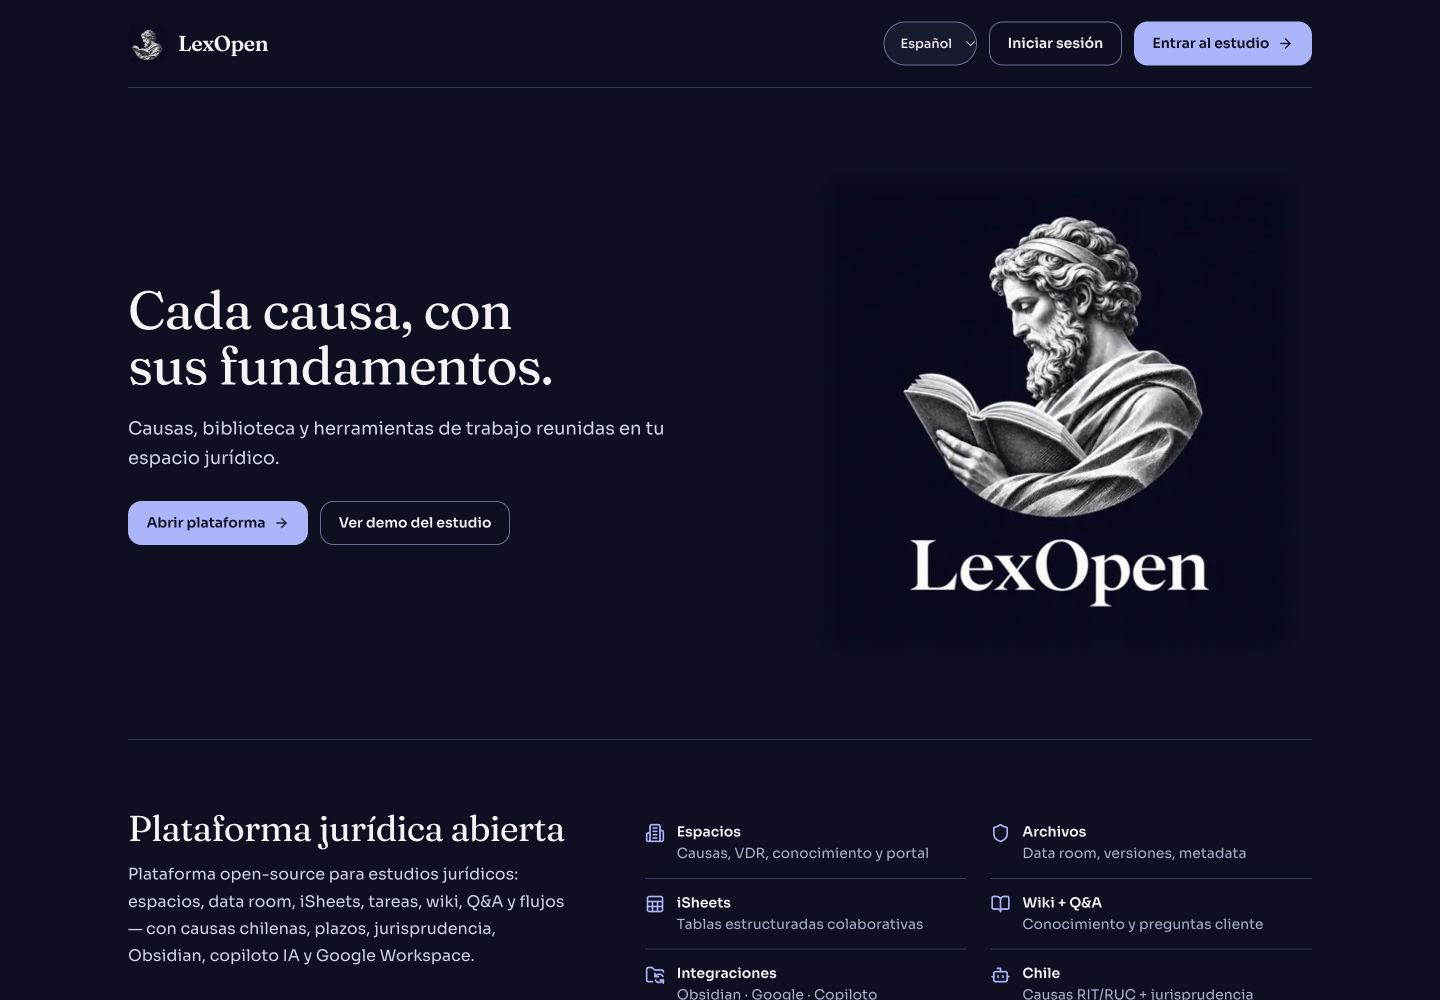
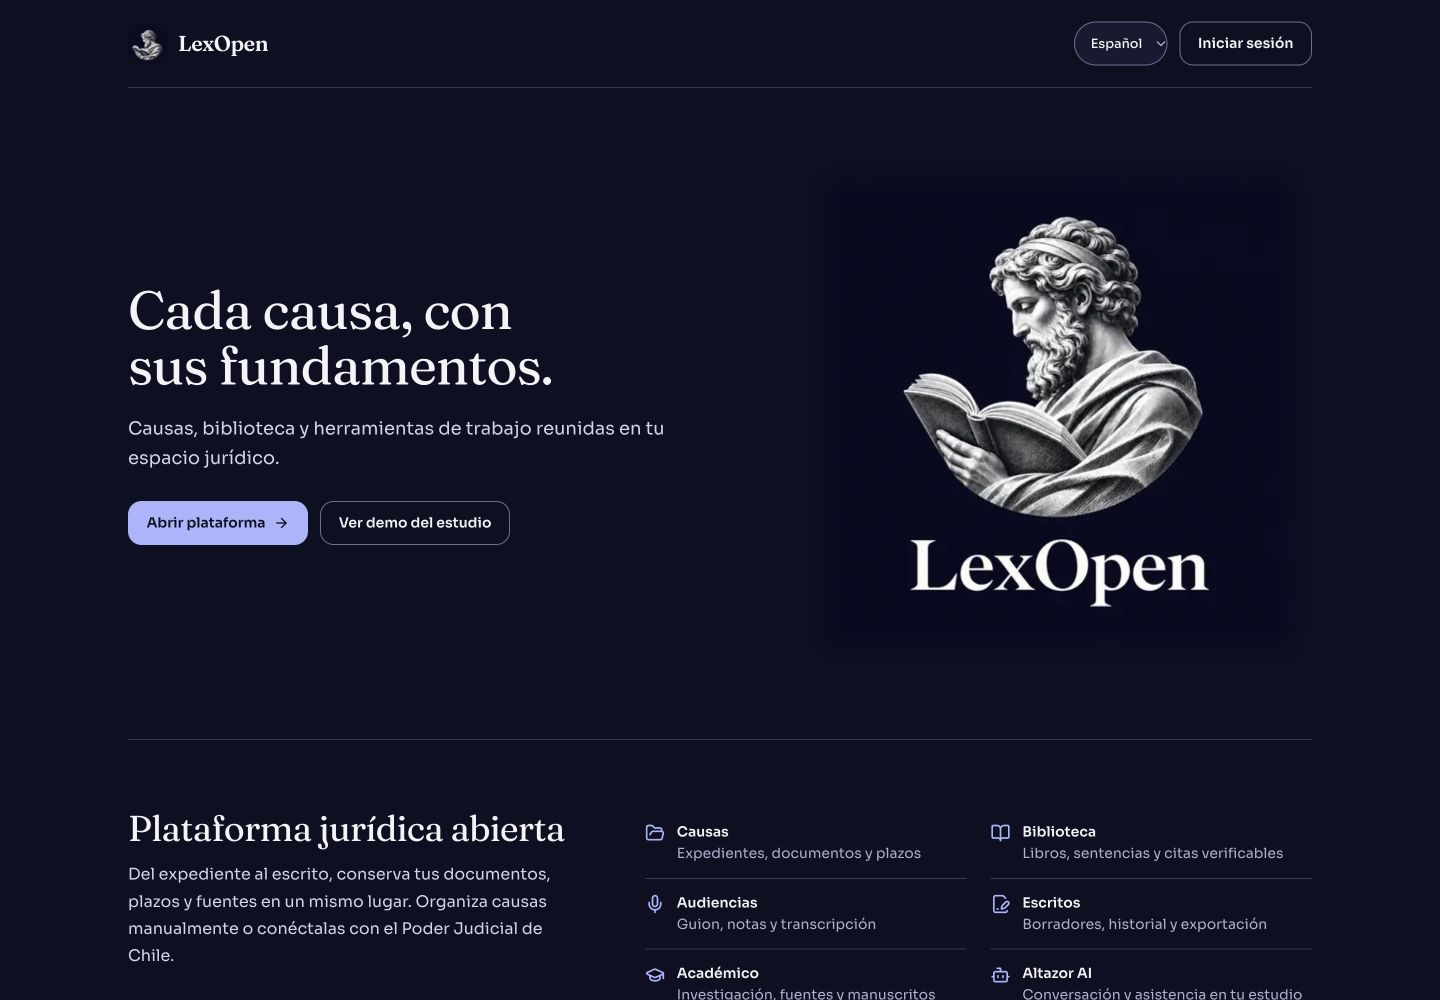
Simplifica el acceso y el recorrido de la portada

diff --git a/src/lib/i18n/dictionaries/es.ts b/src/lib/i18n/dictionaries/es.ts
@@ -349,25 +349,25 @@ export const es = {
     enterFirm: "Entrar al estudio",
     eyebrow: "Chile · Operación legal",
     lead:
-      "Plataforma open-source para estudios jurídicos: espacios, data room, iSheets, tareas, wiki, Q&A y flujos — con causas chilenas, plazos, jurisprudencia, Obsidian, copiloto IA y Google Workspace.",
+      "Del expediente al escrito, conserva tus documentos, plazos y fuentes en un mismo lugar. Organiza causas manualmente o conéctalas con el Poder Judicial de Chile.",
     openPlatform: "Abrir plataforma",
     seeDemo: "Ver demo del estudio",
     matterLabel: "Espacio de causa",
-    matterMeta: "Archivos · Tareas · iSheets · Q&A · Wiki",
+    matterMeta: "Expediente de demostración",
     bullets: [
-      "VDR con versionado y comentarios",
-      "iSheet de hitos procesales",
-      "Workflow de aprobación de escritos",
-      "Portal cliente + sync Obsidian",
+      "Documentos y versiones del expediente",
+      "Cronología, plazos y hechos de la causa",
+      "Notas de audiencia y borradores de escritos",
+      "Fuentes consultables desde el expediente",
     ],
     modulesTitle: "Módulos HighQ + capa Chile",
     modules: [
-      { title: "Espacios", text: "Causas, VDR, conocimiento y portal" },
-      { title: "Archivos", text: "Data room, versiones, metadata" },
-      { title: "iSheets", text: "Tablas estructuradas colaborativas" },
-      { title: "Wiki + Q&A", text: "Conocimiento y preguntas cliente" },
-      { title: "Integraciones", text: "Obsidian · Google · Copiloto" },
-      { title: "Chile", text: "Causas RIT/RUC + jurisprudencia" },
+      { title: "Causas", text: "Expedientes, documentos y plazos" },
+      { title: "Biblioteca", text: "Libros, sentencias y citas verificables" },
+      { title: "Audiencias", text: "Guion, notas y transcripción" },
+      { title: "Escritos", text: "Borradores, historial y exportación" },
+      { title: "Académico", text: "Investigación, fuentes y manuscritos" },
+      { title: "Altazor AI", text: "Conversación y asistencia en tu estudio" },
     ],
   },
   locale: {

diff --git a/src/lib/i18n/dictionaries/en.ts b/src/lib/i18n/dictionaries/en.ts
@@ -351,25 +351,25 @@ export const en: Dictionary = {
     enterFirm: "Enter the firm",
     eyebrow: "Chile · Legal operations",
     lead:
-      "Open-source platform for law firms: sites, data room, iSheets, tasks, wiki, Q&A and workflows — plus Chilean matters, deadlines, case law, Obsidian, AI copilot and Google Workspace.",
+      "Keep your documents, deadlines and sources together, from case file to final draft. Manage matters manually or connect them to the Chilean judiciary.",
     openPlatform: "Open platform",
     seeDemo: "View firm demo",
     matterLabel: "Matter workspace",
-    matterMeta: "Files · Tasks · iSheets · Q&A · Wiki",
+    matterMeta: "Demonstration case file",
     bullets: [
-      "VDR with versioning and comments",
-      "iSheet for procedural milestones",
-      "Workflow for pleading approvals",
-      "Client portal + Obsidian sync",
+      "Case documents and version history",
+      "Timeline, deadlines and facts",
+      "Hearing notes and drafts",
+      "Sources you can review from the case file",
     ],
     modulesTitle: "HighQ modules + Chile layer",
     modules: [
-      { title: "Sites", text: "Matters, VDR, knowledge and portal" },
-      { title: "Files", text: "Data room, versions, metadata" },
-      { title: "iSheets", text: "Collaborative structured tables" },
-      { title: "Wiki + Q&A", text: "Knowledge and client questions" },
-      { title: "Integrations", text: "Obsidian · Google · Copilot" },
-      { title: "Chile", text: "RIT/RUC matters + case law" },
+      { title: "Matters", text: "Case files, documents and deadlines" },
+      { title: "Library", text: "Books, judgments and verifiable citations" },
+      { title: "Hearings", text: "Outline, notes and transcription" },
+      { title: "Drafts", text: "Writing, history and export" },
+      { title: "Academic", text: "Research, sources and manuscripts" },
+      { title: "Altazor AI", text: "Conversation and help with your practice" },
     ],
   },
   locale: {

diff --git a/src/app/page.tsx b/src/app/page.tsx
@@ -2,12 +2,12 @@
 
 import Image from "next/image";
 import Link from "next/link";
-import { ArrowRight, BookOpen, Bot, Building2, FolderSync, Sheet, Shield } from "lucide-react";
+import { ArrowRight, BookOpen, Bot, FilePenLine, FolderOpen, GraduationCap, Mic } from "lucide-react";
 import { LanguageSwitcher } from "@/components/i18n/LanguageSwitcher";
 import { useI18n } from "@/components/i18n/I18nProvider";
 import "./welcome.css";
 
-const moduleIcons = [Building2, Shield, Sheet, BookOpen, FolderSync, Bot];
+const moduleIcons = [FolderOpen, BookOpen, Mic, FilePenLine, GraduationCap, Bot];
 
 export default function LandingPage() {
   const { dict, t } = useI18n();
@@ -23,9 +23,6 @@ export default function LandingPage() {
           <LanguageSwitcher variant="compact" />
           <Link href="/login" className="btn btn-ghost">
             {t("landing.signIn")}
-          </Link>
-          <Link href="/login" className="btn btn-primary edition-firm-link">
-            {t("landing.enterFirm")} <ArrowRight size={16} aria-hidden="true" />
           </Link>
         </nav>
       </header>
@@ -63,7 +60,7 @@ export default function LandingPage() {
           </div>
           <ul className="edition-modules">
             {dict.landing.modules.map((mod, i) => {
-              const Icon = moduleIcons[i] || Building2;
+              const Icon = moduleIcons[i] || FolderOpen;
               return (
                 <li key={mod.title}>
                   <Icon size={20} aria-hidden="true" />

diff --git a/src/app/welcome.css b/src/app/welcome.css
@@ -182,12 +182,6 @@
   font-weight: 600;
 }
 
-@media (max-width: 880px) {
-  .edition-nav .edition-firm-link {
-    display: none;
-  }
-}
-
 @media (max-width: 640px) {
   .edition-width {
     width: calc(100% - 2rem);
